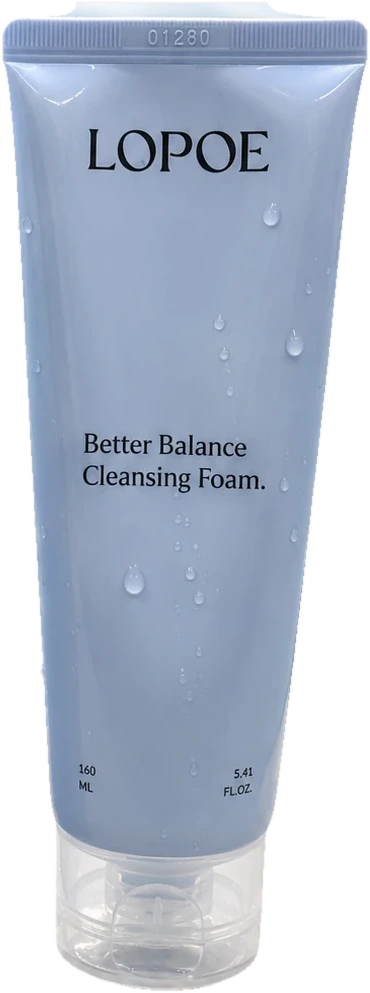
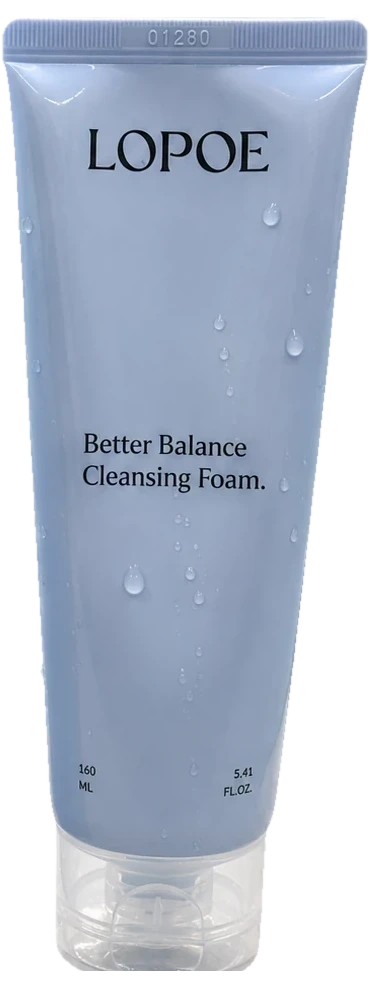
W061: giọt tinh chất sprite thật, nắp thẳng trên chai, vật mờ không ghi depth; cắt lại PDRN serum, Lalarecipe Yuzu, đuôi tuýp LOPOE (#49)
Claude-Session: https://claude.ai/code/session_01SM32Gy7XZHf11jVL44stwA

Changed region(s): [[0.1784, 0.0, 0.773, 0.0312], [0.2378, 0.9678, 0.6541, 0.999]]

diff --git a/components/cuon-3d/canh.ts b/components/cuon-3d/canh.ts
@@ -81,7 +81,7 @@ export function noiSuy(keys: Khoa[], p: number, dt: boolean): TuThe {
 }
 
 export type LoaiHat = "thua" | "sen" | "phan-tu" | "rau-ma" | "xoan";
-export interface TaiSan { ampoule_than: string; ampoule_nap: string; ampoule_co: string; sua_rua_mat: string; kem_duong: string }
+export interface TaiSan { ampoule_than: string; ampoule_nap: string; ampoule_co: string; giot: string; sua_rua_mat: string; kem_duong: string }
 export interface ViTriNhan { x: number; y: number; o: number }
 
 export interface Canh {
@@ -127,7 +127,7 @@ export function taoCanh(
     obj.traverse((m: any) => {
       if (!m.material) return;
       for (const mt of Array.isArray(m.material) ? m.material : [m.material]) {
-        if (mt.userData.goc === undefined) { mt.userData.goc = mt.opacity; mt.transparent = true; }
+        if (mt.userData.goc === undefined) { mt.userData.goc = mt.opacity; mt.transparent = true; mt.depthWrite = false; } // vật mờ không ghi depth: tránh đục lỗ thân chai vẽ sau
         mt.opacity = mt.userData.goc * o;
       }
     });
@@ -171,8 +171,9 @@ export function taoCanh(
   const ampG = new THREE.Group();
   scene.add(ampG);
   SP.amp = { g: ampG };
-  const NAP: { nhom: THREE.Group | null; giot: THREE.Mesh | null; gon: THREE.Mesh | null } = { nhom: null, giot: null, gon: null };
+  const NAP: { nhom: THREE.Group | null; giot: THREE.Sprite | null; gon: THREE.Mesh | null } = { nhom: null, giot: null, gon: null };
   let caoThanAmp = CAO * 0.66;
+  const caoCoChai = (CAO / 989) * 92; // cổ chai nhô lên (ảnh ampoule-co: 92px), cùng đơn vị DV
   const longMat = () => new THREE.MeshPhysicalMaterial({ color: 0x86afe6, roughness: 0.15, clearcoat: 0.8, envMapIntensity: 1.1, transparent: true, opacity: 0.85, depthWrite: false });
   {
     // Kích thước theo điểm ảnh của bộ ảnh: thân 294×654; cổ chai 294×90; nắp 294×975 (bầu + cổ nắp ảnh thật CĐT chụp 20/11, ống cắt từ ảnh thật IMG_9767, rộng 58px dài 400px),
@@ -181,26 +182,27 @@ export function taoCanh(
     const rong = 294 * DV, caoThan = 654 * DV, caoNap = 975 * DV, dayCoNap = 365 * DV;
     caoThanAmp = caoThan;
     const taiAnh = (url: string) => { const t = tai.load(url); t.colorSpace = THREE.SRGBColorSpace; t.anisotropy = 8; return t; };
-    const than = new THREE.Mesh(new THREE.PlaneGeometry(rong, caoThan), new THREE.MeshBasicMaterial({ map: taiAnh(opts.taiSan.ampoule_than), transparent: true, toneMapped: false }));
+    const than = new THREE.Mesh(new THREE.PlaneGeometry(rong, caoThan), new THREE.MeshBasicMaterial({ map: taiAnh(opts.taiSan.ampoule_than), transparent: true, toneMapped: false, depthWrite: false }));
     than.position.y = -CAO / 2 + caoThan / 2;
     than.renderOrder = 2;
     ampG.add(than);
     // Cổ chai nhô lên (cắt từ ảnh thật IMG_9765, thuỷ tinh có ren, ảnh 294×100, cổ cao 92px, chồng 8px lên vai chai): nằm sau nắp để cổ nắp che kín khi đóng, lộ ra khi nhấc
     const caoCo = 100 * DV;
-    const co = new THREE.Mesh(new THREE.PlaneGeometry(rong, caoCo), new THREE.MeshBasicMaterial({ map: taiAnh(opts.taiSan.ampoule_co), transparent: true, toneMapped: false }));
+    const co = new THREE.Mesh(new THREE.PlaneGeometry(rong, caoCo), new THREE.MeshBasicMaterial({ map: taiAnh(opts.taiSan.ampoule_co), transparent: true, toneMapped: false, depthWrite: false }));
     co.position.y = -CAO / 2 + caoThan - 8 * DV + caoCo / 2;
     co.position.z = -0.02;
     co.renderOrder = 0;
     ampG.add(co);
     const nap = new THREE.Group();
-    const anhNap = new THREE.Mesh(new THREE.PlaneGeometry(rong, caoNap), new THREE.MeshBasicMaterial({ map: taiAnh(opts.taiSan.ampoule_nap), transparent: true, toneMapped: false }));
+    const anhNap = new THREE.Mesh(new THREE.PlaneGeometry(rong, caoNap), new THREE.MeshBasicMaterial({ map: taiAnh(opts.taiSan.ampoule_nap), transparent: true, toneMapped: false, depthWrite: false }));
     // Cổ nắp đặt sát miệng chai; ống nằm sau thân chai (thấy mờ qua kính), nhấc nắp thì ống đi theo
     anhNap.position.y = -CAO / 2 + caoThan - 0.015 + dayCoNap - caoNap / 2; // đỉnh ảnh = miệng chai + dayCoNap
     anhNap.position.z = -0.01;
     anhNap.renderOrder = 1;
     nap.add(anhNap);
     ampG.add(nap);
-    const giot = new THREE.Mesh(new THREE.SphereGeometry(0.08, 24, 16), longMat());
+    // Giọt tinh chất: sprite giọt nước trong (giot.webp 128×192), hình thành ở đầu ống rồi rơi vào miệng chai
+    const giot = new THREE.Sprite(new THREE.SpriteMaterial({ map: taiAnh(opts.taiSan.giot), transparent: true, depthWrite: false, toneMapped: false }));
     giot.visible = false;
     ampG.add(giot);
     const gon = new THREE.Mesh(new THREE.RingGeometry(0.92, 1, 64), new THREE.MeshBasicMaterial({ color: 0x5d8fd6, transparent: true, opacity: 0.6, side: THREE.DoubleSide, depthWrite: false }));
@@ -432,23 +434,29 @@ export function taoCanh(
     // 4) Nắp nhỏ giọt (đơn vị cảnh; đáy chai ở y = -CAO/2, miệng chai ở y = -CAO/2 + caoThan)
     if (NAP.nhom && NAP.giot && NAP.gon) {
       const nhac = seg(p, 0.43, 0.455) - seg(p, 0.5, 0.525), lech = seg(p, 0.452, 0.468) - seg(p, 0.495, 0.51);
-      const LIFT = 1.3, LECH = 0.55; // nhấc đủ cao để đầu ống (dài 400px = 1.03) vượt khỏi cổ chai (92px)
+      const LIFT = 1.58, LECH = 0.06; // ống gần như thẳng trên cổ chai để giọt rơi đúng miệng // nhấc đủ cao để đầu ống (dài 400px = 1.03) vượt khỏi cổ chai (92px)
       NAP.nhom.position.set(lech * LECH, nhac * LIFT, 0.01);
-      amp.position.y -= nhac * 0.3; // chai lún nhẹ khi rút nắp để nắp không vượt mép trên màn hình
-      NAP.nhom.rotation.z = -lech * 0.1;
+      amp.position.y -= nhac * 0.5; // chai lún nhẹ khi rút nắp để nắp không vượt mép trên màn hình
+      NAP.nhom.rotation.z = -lech * 0.02;
       const f = seg(p, 0.466, 0.492), tx = lech * LECH, dayChai = -CAO / 2, mieng = dayChai + caoThanAmp, ty = mieng - 0.02 + nhac * LIFT - 1.03; // giọt rơi từ đầu ống (đầu ống cách đáy nắp 400px ≈ 1.03)
       NAP.giot.visible = f > 0 && f < 1 && nhac > 0.5;
       if (NAP.giot.visible) {
-        const taoGiot = kep(f / 0.3), roi = kep((f - 0.3) / 0.7);
-        NAP.giot.scale.setScalar(0.3 + 0.7 * taoGiot);
-        NAP.giot.position.set(tx, ty - 0.08 - roi * roi * (ty - 0.08 - dayChai), 0.05);
+        // 0–0.45: giọt phình ra và kéo dài ở đầu ống; 0.45–1: rơi (gia tốc) vào miệng chai rồi biến mất
+        const tao = muot(kep(f / 0.45)), roi = kep((f - 0.45) / 0.55);
+        const W0 = 0.17, H0 = 0.255;
+        const keo = 1 + 0.35 * tao * (1 - roi); // kéo dài khi còn bám đầu ống
+        NAP.giot.scale.set(W0 * (0.25 + 0.75 * tao) * (1 - 0.12 * roi), H0 * (0.25 + 0.75 * tao) * keo, 1);
+        const yDau = ty - H0 * 0.5 * (0.25 + 0.75 * tao) * keo + 0.02;
+        const yDich = mieng + caoCoChai * 0.5;
+        NAP.giot.position.set(tx, yDau - roi * roi * (yDau - yDich), 0.05);
       }
-      const gg = seg(p, 0.488, 0.508);
+      // Gợn nhỏ trên mặt cổ chai khi giọt chạm
+      const gg = seg(p, 0.488, 0.503);
       NAP.gon.visible = gg > 0 && gg < 1;
       if (NAP.gon.visible) {
-        NAP.gon.position.set(tx, dayChai + 0.012, 0.05);
-        NAP.gon.scale.setScalar(0.04 + gg * 0.6);
-        (NAP.gon.material as THREE.MeshBasicMaterial).opacity = 0.6 * (1 - gg);
+        NAP.gon.position.set(tx, mieng + caoCoChai * 0.95, 0.05);
+        NAP.gon.scale.setScalar(0.03 + gg * 0.22);
+        (NAP.gon.material as THREE.MeshBasicMaterial).opacity = 0.45 * (1 - gg);
       }
     }
 

diff --git a/lib/thu-nghiem/lopoe-3d.ts b/lib/thu-nghiem/lopoe-3d.ts
@@ -31,7 +31,7 @@ const ThanhPhanSchema = z.object({
 });
 export const CauHinhLopoe3DSchema = z.object({
   hien_cho_duyet: z.boolean().default(false),
-  tai_san: z.object({ ampoule_than: z.string(), ampoule_nap: z.string(), ampoule_co: z.string(), sua_rua_mat: z.string(), kem_duong: z.string() }),
+  tai_san: z.object({ ampoule_than: z.string(), ampoule_nap: z.string(), ampoule_co: z.string(), giot: z.string(), sua_rua_mat: z.string(), kem_duong: z.string() }),
   mo_dau: z.object({ nho: z.string(), tieu_de: z.string(), cau: z.string(), nut: z.array(NutSchema).default([]) }),
   khoi: z.array(KhoiChu3DSchema).min(1),
   thanh_phan: z.object({ sua_rua_mat: z.array(ThanhPhanSchema).length(4), ampoule: z.array(ThanhPhanSchema).length(4) }),

diff --git a/tasks/W061.md b/tasks/W061.md
@@ -1,0 +1,19 @@
+# W061 · Sửa lỗi hình khi cuộn, giọt tinh chất thật, ảnh cắt lại (CĐT 20/11 chiều)
+
+Đã làm (Claude). Antigravity KHÔNG làm lại.
+
+## CĐT báo (kèm 5 ảnh)
+1. Khối 3D khi cuộn: ô sáng hình chữ nhật chồng lên thân chai.
+2. Một số lọ còn lỗi góc, lộ đáy.
+3. Medicube PDRN serum cắt kì (mép thẳng cắt vào bầu nắp).
+4. Đuôi tuýp LOPOE cắt chưa kỹ, lòi mảnh lạ.
+5. Giọt tinh chất ampoule giả, không giống tinh chất.
+6. Bộ Lalarecipe Yuzu cắt lỗi (ảnh đời sống: trái cây, tay).
+
+## Đã sửa
+- (1) `canh.ts`: mọi vật liệu mờ do `datMo` quản lý và 3 mặt phẳng ảnh ampoule đặt `depthWrite=false`. Nguyên nhân khả dĩ: vật thể đang mờ dần (opacity nhỏ, renderOrder 0) ghi depth trước thân chai (renderOrder 2) nên đục một ô đúng hình nó lên thân chai, lộ màu nền. Không tái hiện được trên headless; CĐT kiểm lại.
+- (5) Giọt = `THREE.Sprite` dùng `giot.webp` (giọt nước trong, vẽ bằng gradient Fresnel + vệt sáng, 128×192). Phình ở đầu ống (0–45% đoạn), kéo dài, rồi rơi gia tốc vào miệng cổ chai, gợn nhỏ ở cổ. Nắp nhấc thẳng trên chai (LECH 0.55 → 0.06), LIFT 1.58, chai lún 0.5 khi rút nắp. Schema `tai_san.giot`.
+- (3) `medicube-pdrn-serum.webp`: cắt lại từ ảnh chính diện (lookfantastic 17692818), chuẩn hoá 105mm = 900px, đáy y=950.
+- (4) `srm.webp`: bỏ mảnh lòi trên mép ép (17 hàng đầu); `kem.webp`: bỏ bóng phản chiếu dưới nắp.
+- (6) Ô Lalarecipe dùng `anh_bo` 3 ảnh cắt sạch trong repo (`lalarecipe-yuzu-pad/ampoule/cream.webp`, nguồn ảnh bán lẻ vitacost nền trắng), tỷ lệ thật (118mm = 900px). Ảnh kho media 3 mã này vẫn là ảnh đời sống → DES/Media thay sau.
+- (2) Đã soát ảnh Tiela, Rep!el trong kho media: góc chụp ngang/hơi cao, không lộ đáy. Nếu CĐT chỉ lọ cụ thể thì sửa tiếp.
